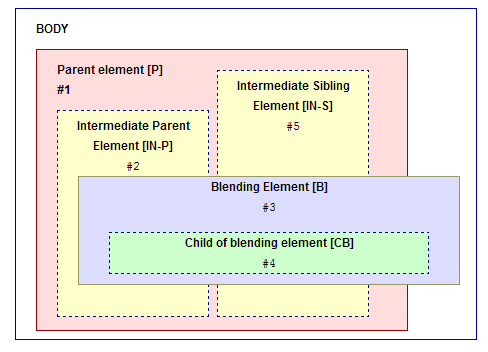
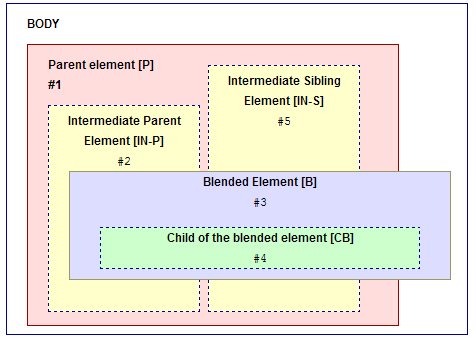
Some minor updates for mix-blend-mode

Changed region(s): [[0.0294, 0.0, 1.0, 0.9942]]

diff --git a/css-blending-test-plan-proposal.html b/css-blending-test-plan-proposal.html
@@ -167,11 +167,14 @@
 &lt;/body&gt;
 						</pre>
                     <p> Unless otherwise stated, test cases asumes the following properties for the elements: <br>
-                        [P] - parent element with a property that creates a stacking context (e.g. <code>position:fixed</code>) and opaque <code>background-color</code> other than default <br>
-                        [B] - element with <code>mix-blend-mode</code> other than normal and opaque <code>background-color</code> other than default <br>
+                        <ul>
+                        <li> [P] - parent element with a property that creates a stacking context (e.g. <code>position:fixed</code>)  </li>
+                        <li> [B] - element with <code>mix-blend-mode</code> other than normal </li>
+                        <li> <code>background-color</code> set to a fully opaque color for all the elements, except the <code>body</code> </li>
+                        </ul>
                     </p>
                     <p>The CSS associated to the elements used in the tests shouldn't use properties that creates a stacking context, except the ones specified in the test case descriptions.</p>
-                    <p>Every test case has a description of the elements used. Each one uses only a subset of the elements while the other elements should just be removed. The notation from the image is used in the test case description too (e.g. for parent element the notation is [P]).
+                    <p>Every test case has a description of the elements used. The notation from the image is used in the test case description too (e.g. for parent element the notation is [P]). Each test case uses only a subset of the elements while the other elements should just be removed.
                     </p></p>
 					<section>
 						<h4>An element with <code>mix-blend-mode</code> other than normal creates a stacking context</h4>
@@ -184,8 +187,7 @@
 							</tr>
 							<tr>
 								<td>Simple <code>&lt;div&gt;</td>
-								<td>1 element required: <br>
-                                    [B] - Element with <code>mix-blend-mode</code> other than normal <br> and opaque <code>background-color</code> other than default <br>
+								<td>1 element required: <a href="#test_outline" title="Element with mix-blend-mode property other than normal">[B]</a>
 								 </td>
 								<td>The element [B] creates a stacking context - the computed value of <q>z-index</q> has a value other than <q>auto</q>   </td>
 							</tr>
@@ -451,42 +453,42 @@
                             <th>Expected result</th>
                         </tr>
 						<tr>
-							<td>Border-image</td>
+							<td>Blended element with <code>border-image</code> </td>
 							<td>2 elements required: <a href="#test_outline" title="parent element with a property that creates stacking context">[P]</a> and <a href="#test_outline" title="Element with mix-blend-mode property other than normal">[B]</a> <br>
-								[B] - with <code>border-image</code> specified as a png file.
+								[B] - with <code>border-image</code> specified as a png file
 							</td>
 							<td>The color of the parent element [P] mixes with the color of the child element. <br>
 								The color of the <code>border-image</code> mixes with the color of the parent element [P].
 							</td>
 						</tr>
 						<tr>
-							<td>Blending with <code>canvas</code> </td>
+							<td>Blending with <code>&lt;canvas&gt;</code> </td>
 							<td>2 elements required: <a href="#test_outline" title="Element with mix-blend-mode property other than normal">[B]</a> and <a href="#test_outline" title="Sibling of the element [B]">[IN-S]</a> <br>
-								[B] - <code>canvas</code> element. No <code>mix-blend-mode</code> specified <br>
-								[IN-S] - Sibling of the <code>canvas</code> element with <code>mix-blend-mode</code> and some text <br>
-								The [IN-S] element overlaps the <code>canvas</code> element
+								[B] - <code>&lt;canvas&gt;</code> element with <code>mix-blend-mode</code> other than normal <br>
+								[IN-S] - Sibling of the <code>&lt;canvas&gt;</code> element with some text <br>
+								The [IN-S] element overlaps the <code>&lt;canvas&gt;</code> element
 							</td>
-							<td>The content of the <code>canvas</code> element mixes with the color of the sibling element and the text [IN-S].</td>
+							<td>The content of the <code>&lt;canvas&gt;</code> element mixes with the color of the sibling element and the text [IN-S].</td>
 						</tr>
                         <tr>
-                            <td>Blended <code>cavas</code></td>
+                            <td>Blended <code>&lt;canvas&gt;</code></td>
                             <td>2 elements required: <a href="#test_outline" title="parent element with a property that creates stacking context">[P]</a> and <a href="#test_outline" title="Element with mix-blend-mode property other than normal">[B]</a> <br>
-                                [B] - Child <code>canvas</code> element
+                                [B] - Child <code>&lt;canvas&gt;</code> element with <code>mix-blend-mode</code> other than normal
                             </td>
-                            <td>The color of the <code>canvas</code> element [B] mixes with the color of the parent element [P] .</td>
+                            <td>The color of the <code>&lt;canvas&gt;</code> element [B] mixes with the color of the parent element [P] .</td>
                         </tr>
                         <tr>
                             <td>Blended <code>&lt;video&gt;</code></td>
                             <td>2 elements required: <a href="#test_outline" title="parent element with a property that creates stacking context">[P]</a> and <a href="#test_outline" title="Element with mix-blend-mode property other than normal">[B]</a> <br>
-                                [B] - <code>&lt;video&gt;</code> element
+                                [B] - <code>&lt;video&gt;</code> element with <code>mix-blend-mode</code> other than normal
                             </td>
                             <td>The color of the <code>&lt;video&gt;</code> element mixes with the color of the parent element [P] .</td>
                         </tr>
 						<tr>
 							<td>Blending with <code>&lt;iframe&gt;</code> </td>
 							<td>2 elements required: <a href="#test_outline" title="Element with mix-blend-mode property other than normal">[B]</a> and <a href="#test_outline" title="Sibling of the element [B]">[IN-S]</a> <br>
-									[B] - <code>&lt;iframe&gt;</code> element. No <code>mix-blend-mode</code> specified <br>
-									[IN-S] - sibling(of the element [B]) with <code>mix-blend-mode</code> and some text <br>
+									[B] - <code>&lt;iframe&gt;</code> element with <code>mix-blend-mode</code> other than normal <br>
+									[IN-S] - sibling(of the element [B]) with some text <br>
 									The [IN-S] element visually overlaps the <code>&lt;iframe&gt;</code> element
 							</td>
 							<td>The color of the <code>&lt;iframe&gt;</code> element mixes with the color of the sibling element and the text [IN-S].</td>
@@ -494,7 +496,7 @@
                         <tr>
                             <td>Blended <code>&lt;iframe&gt;</code></td>
                             <td>2 elements required: <a href="#test_outline" title="parent element with a property that creates stacking context">[P]</a> and <a href="#test_outline" title="Element with mix-blend-mode property other than normal">[B]</a> <br>
-                                [B] - Child <code>&lt;iframe&gt;</code> element
+                                [B] - <code>&lt;iframe&gt;</code> element
                             </td>
                             <td>The color of the <code>&lt;iframe&gt;</code> element [B] mixes with the color of the parent element [P]. </td>
                         </tr>
@@ -531,26 +533,26 @@
                         <tr>
                             <td>Image element</td>
                             <td>2 elements required: <a href="#test_outline" title="parent element with a property that creates stacking context">[P]</a> and <a href="#test_outline" title="Element with mix-blend-mode property other than normal">[B]</a> <br>
-                                    [B] - Child <code>&lt;img&gt;</code> element (.jpeg or .gif image) </td>
+                                    [B] - <code>&lt;img&gt;</code> element (.jpeg or .gif image) </td>
                             <td>The color of the <code>&lt;img&gt;</code> is mixed with the color of the <code>&lt;div&gt;</code>.</td>
                         </tr>
                         <tr>
                             <td>SVG element</td>
                             <td>2 elements required: <a href="#test_outline" title="parent element with a property that creates stacking context">[P]</a> and <a href="#test_outline" title="Element with mix-blend-mode property other than normal">[B]</a> <br>
-                                [B] - Child SVG element </td>
+                                [B] - SVG element </td>
                             <td>The color of the SVG is mixed with the color of the <code>&lt;div&gt;</code>.</td>
                         </tr>
                         <tr>
                             <td>Paragraph element</td>
                             <td>2 elements required: <a href="#test_outline" title="parent element with a property that creates stacking context">[P]</a> and <a href="#test_outline" title="Element with mix-blend-mode property other than normal">[B]</a> <br>
-                                [B] - Child paragraph element</td>
+                                [B] - paragraph element</td>
                             <td>The color of the text from the paragraph element is mixed with the color of the <code>&lt;div&gt;</code></td>
                         </tr>
                         <tr>
                             <td>Paragraph element and background-image</td>
                             <td>2 elements required: <a href="#test_outline" title="parent element with a property that creates stacking context">[P]</a> and <a href="#test_outline" title="Element with mix-blend-mode property other than normal">[B]</a> <br>
                                 [P] - Parent <code>&lt;div&gt;</code> element with <code>background-image</code> <br>
-                                [B] - Child <code>p</code> element</td>
+                                [B] - Child <code>p</code> element with some text</td>
                             <td>The color of the text from the <code>p</code> element is mixed with the background image of the <code>&lt;div&gt;</code>.</td>
                         </tr>
                         <tr>
